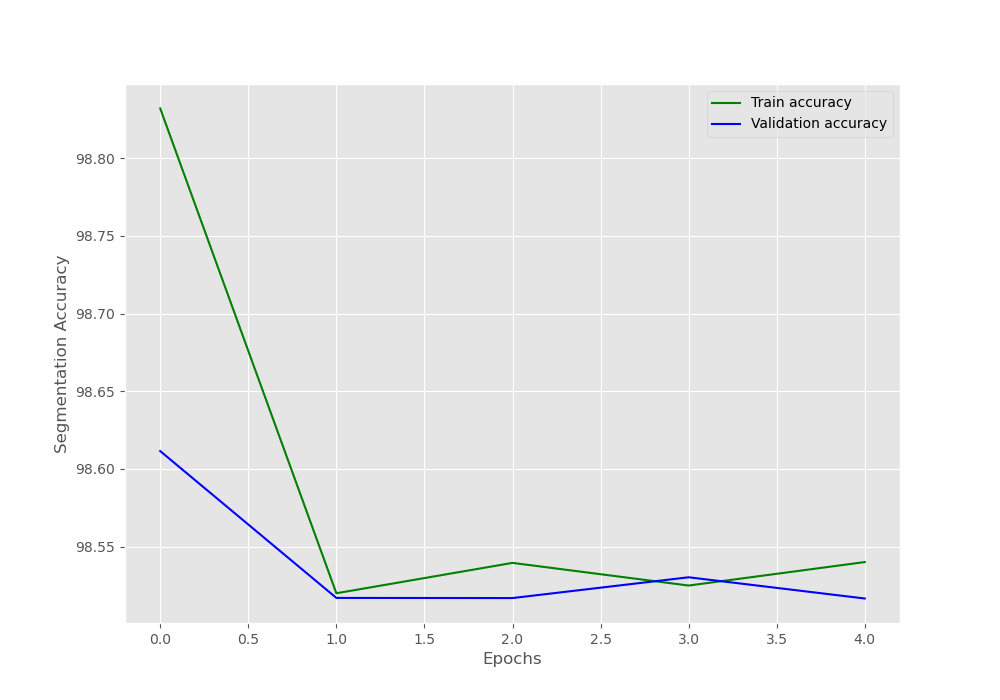
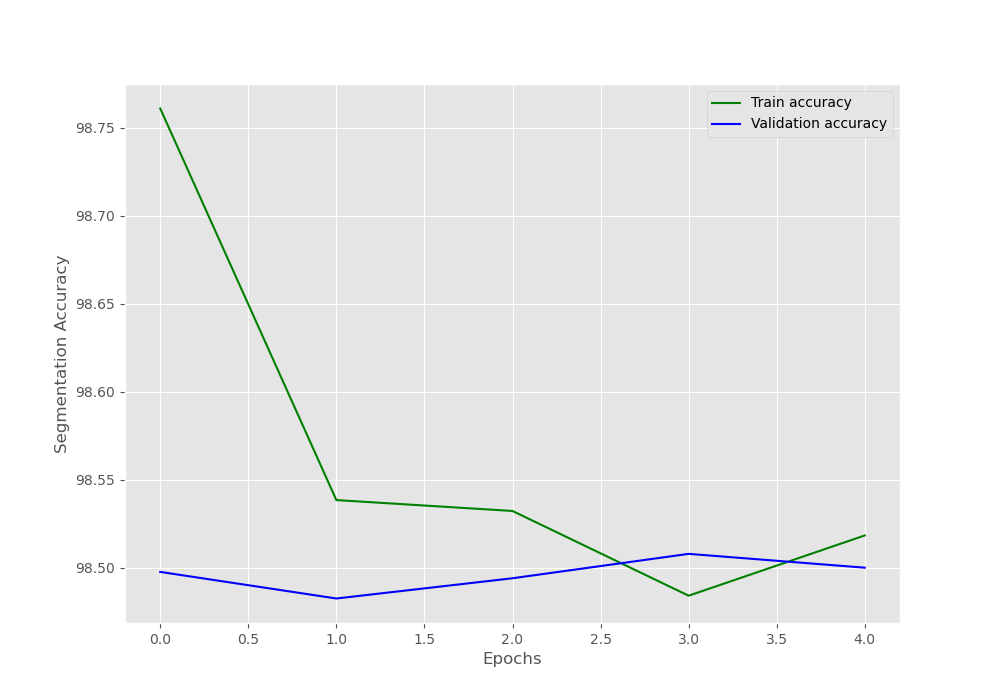
to add: requires_grad = True

diff --git a/havingfun/detection/segmentation/lighttrain.py b/havingfun/detection/segmentation/lighttrain.py
@@ -34,7 +34,7 @@ Pin_memory = True
 Valid_split = 0.2
 Modeluse = LightUnet
 root = '/home/qiao/dev/giao/havingfun/detection/segmentation/saved_imgs/'
-modelparam_path = root + 'Lightunet18SGD_1e4_e5.pth'
+modelparam_path = root + 'Lightunet18Adam_1e2_e5.pth'
 checkpoint = torch.load(modelparam_path)
 # flexible hyper params: epochs, dataset, learning rate, load_model
 parser = argparse.ArgumentParser()
@@ -44,7 +44,7 @@ parser.add_argument(
     '-e',
     '--epochs',
     type = int,
-    default = 5,
+    default = 20,
     help = 'Numbers of epochs to train the network'
 )
 
@@ -52,9 +52,25 @@ parser.add_argument(
     '-l',
     '--lr',
     type = np.float32,
-    default = 1e-2,
+    default = 1e-5,
     help = 'Learning rate for training'
 )
+
+# specifying whether to test the trained model
+parser.add_argument(
+    '-load',
+    '--load',
+    default = None,
+    help = 'loading the trained model for prediction'
+)
+parser.add_argument(
+    '-tar',
+    '--tar_img',
+    type = str,
+    default = '/home/qiao/dev/giao/dataset/imgs/jinglingseg/images/img1.png',
+    help = 'Load the target image to be detected'
+)
+tarmask_path = '/home/qiao/dev/giao/dataset/imgs/jinglingseg/masks/img1_mask.png'
 
 parser.add_argument(
     '-t',
@@ -71,21 +87,7 @@ parser.add_argument(
     help = 'Input the mask dataset path'
 )
 
-# specifying whether to test the trained model
-parser.add_argument(
-    '-load',
-    '--load',
-    default = True,
-    help = 'loading the trained model for prediction'
-)
-parser.add_argument(
-    '-tar',
-    '--tar_img',
-    type = str,
-    default = '/home/qiao/dev/giao/dataset/imgs/jinglingseg/images/img1.png',
-    help = 'Load the target image to be detected'
-)
-tarmask_path = '/home/qiao/dev/giao/dataset/imgs/jinglingseg/masks/img1_mask.png'
+
 
 # classes add codes
 codes = ['Target', 'Void']
@@ -159,7 +161,7 @@ def fit(train_loader, model, optimizer, loss_fn, scaler):
     for i, data in tqdm(enumerate(train_loader), total = len(train_data) // Batch_size):
         counter += 1
 
-        img, mask = data[i]
+        img, mask = data
         img.to(device = Device)
         
         mask = mask.unsqueeze(1)
@@ -198,8 +200,11 @@ def fit(train_loader, model, optimizer, loss_fn, scaler):
 
             mpa = metric.get_MPA()
             train_running_mpa += mpa.item()
+
         # backward
         optimizer.zero_grad()
+        # loss.backward()
+        # optimizer.step()
         scaler.scale(loss).backward()
         scaler.step(optimizer)
         scaler.update() 
@@ -209,6 +214,11 @@ def fit(train_loader, model, optimizer, loss_fn, scaler):
     epoch_loss = train_running_loss / counter
     epoch_acc = 100. * train_running_acc / counter
     epoch_mpa = 100. * train_running_mpa / counter
+
+    # f, ax = plt.subplots(1, 2)
+    # ax[0].imshow(preds)
+    # ax[1].imshow(mask)
+    # plt.show()
     return epoch_loss, epoch_acc, epoch_mpa
 
 def valid(val_loader, model, loss_fn):

diff --git a/havingfun/deving/common/inout.py b/havingfun/deving/common/inout.py
@@ -27,12 +27,16 @@ class Outlayer(nn.Module):
         self.outscale = nn.Upsample(scale_factor=2, mode='nearest')
         self.convo = nn.ConvTranspose2d(out_channels, out_channels, 7, 2, 3)
         self.sigmoid = nn.Sigmoid()
+        
     def forward(self, x):
         y = self.convf(x)
         y = self.relu(y)
         y = self.outscale(y)
         y = self.convo(y)
+        y = (y, requires_grad = True)
         y = self.sigmoid(y)
+        threshold = torch.tensor([0.5])
+        y = (y > threshold).float()*1
         return y
 
 if __name__ == "__main__":
@@ -40,4 +44,4 @@ if __name__ == "__main__":
     layer2 = Outlayer(in_channels=64, out_channels=1)
     feature_in = torch.randn((4, 64, 99, 99))
     feature_out = layer2(feature_in)
-    print(feature_out.shape)
+    print(feature_out)

diff --git a/havingfun/detection/segmentation/lightutils.py b/havingfun/detection/segmentation/lightutils.py
@@ -14,8 +14,8 @@ import numpy as np
 import sklearn.metrics as metrics
 
 modelname = 'Lightunet18Adam'
-lr = '1e2'
-epochs = 'e5'
+lr = '1e5'
+epochs = 'e20'
 process_model_param = 'process_' + modelname + '_' + lr + '_' + epochs + '.pth'
 model_param = modelname + '_' + lr + '_' + epochs + '.pth'
 loss_imgs = 'Loss_'+ modelname + '_' + lr + '_' + epochs +'.png'
